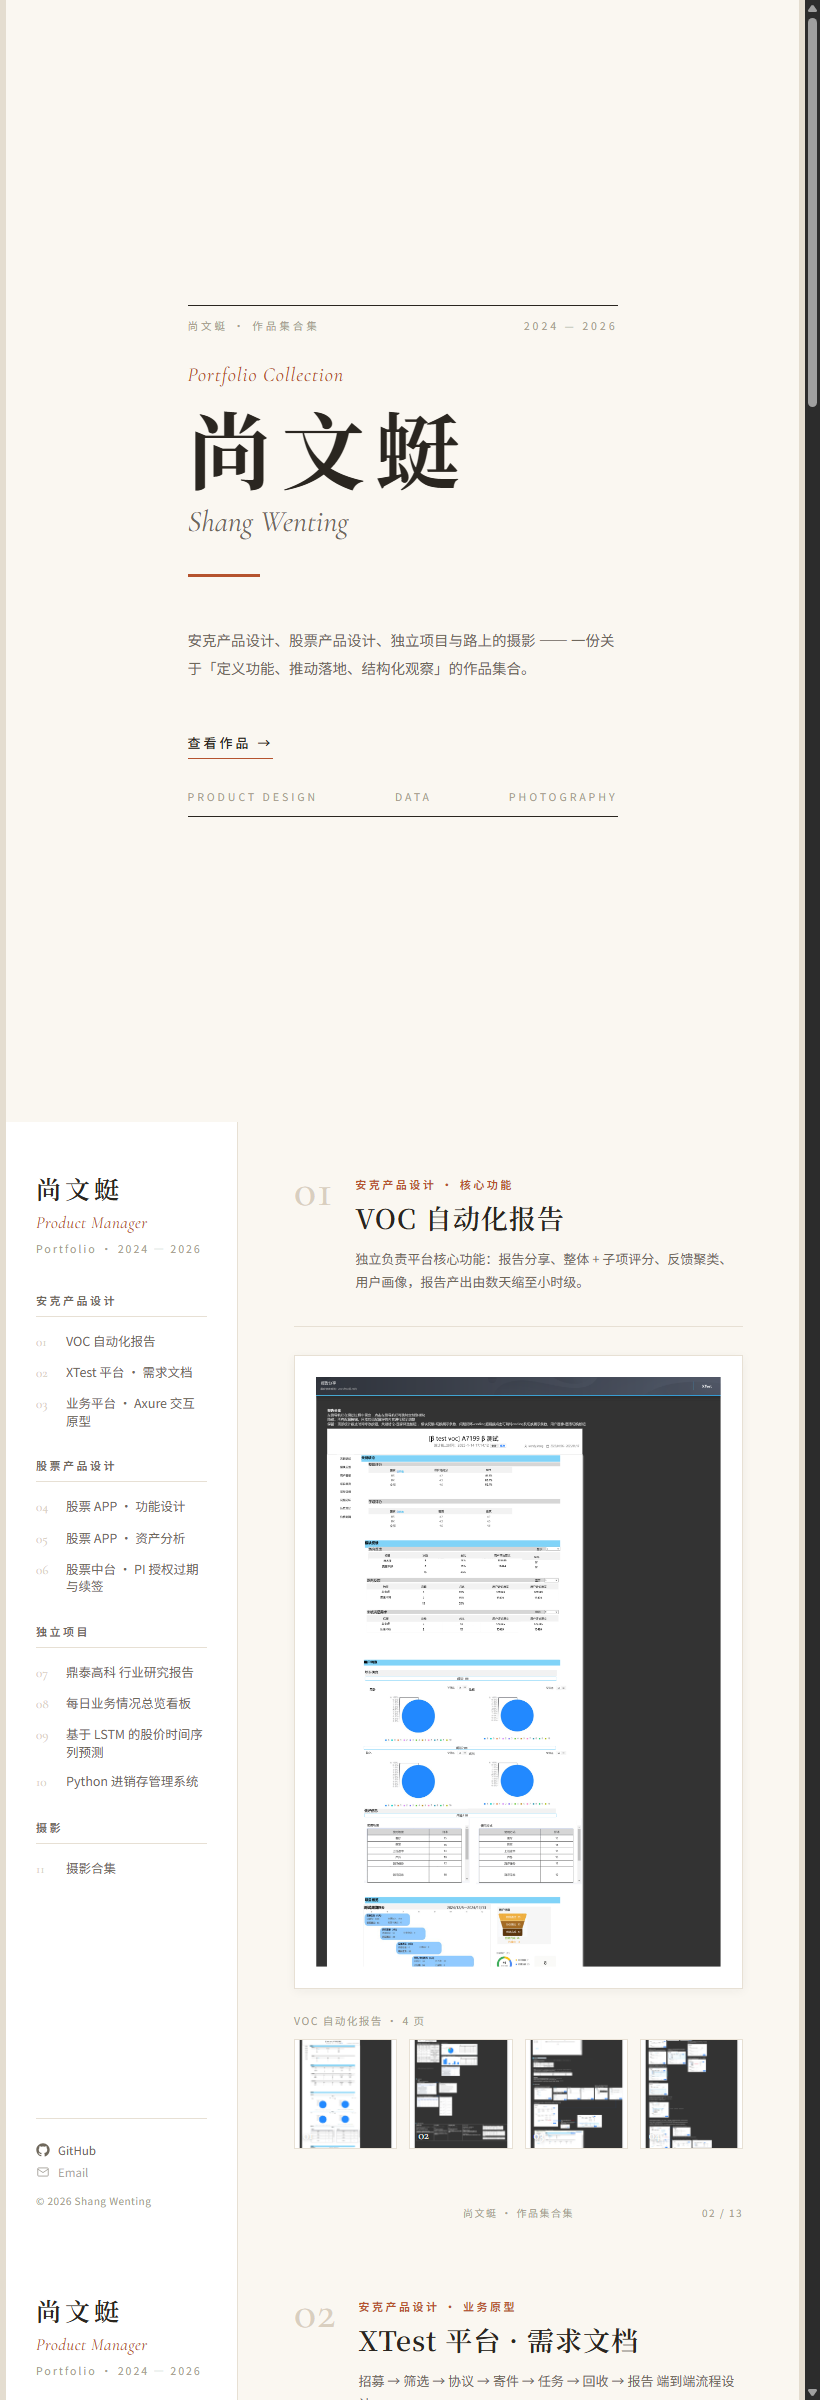
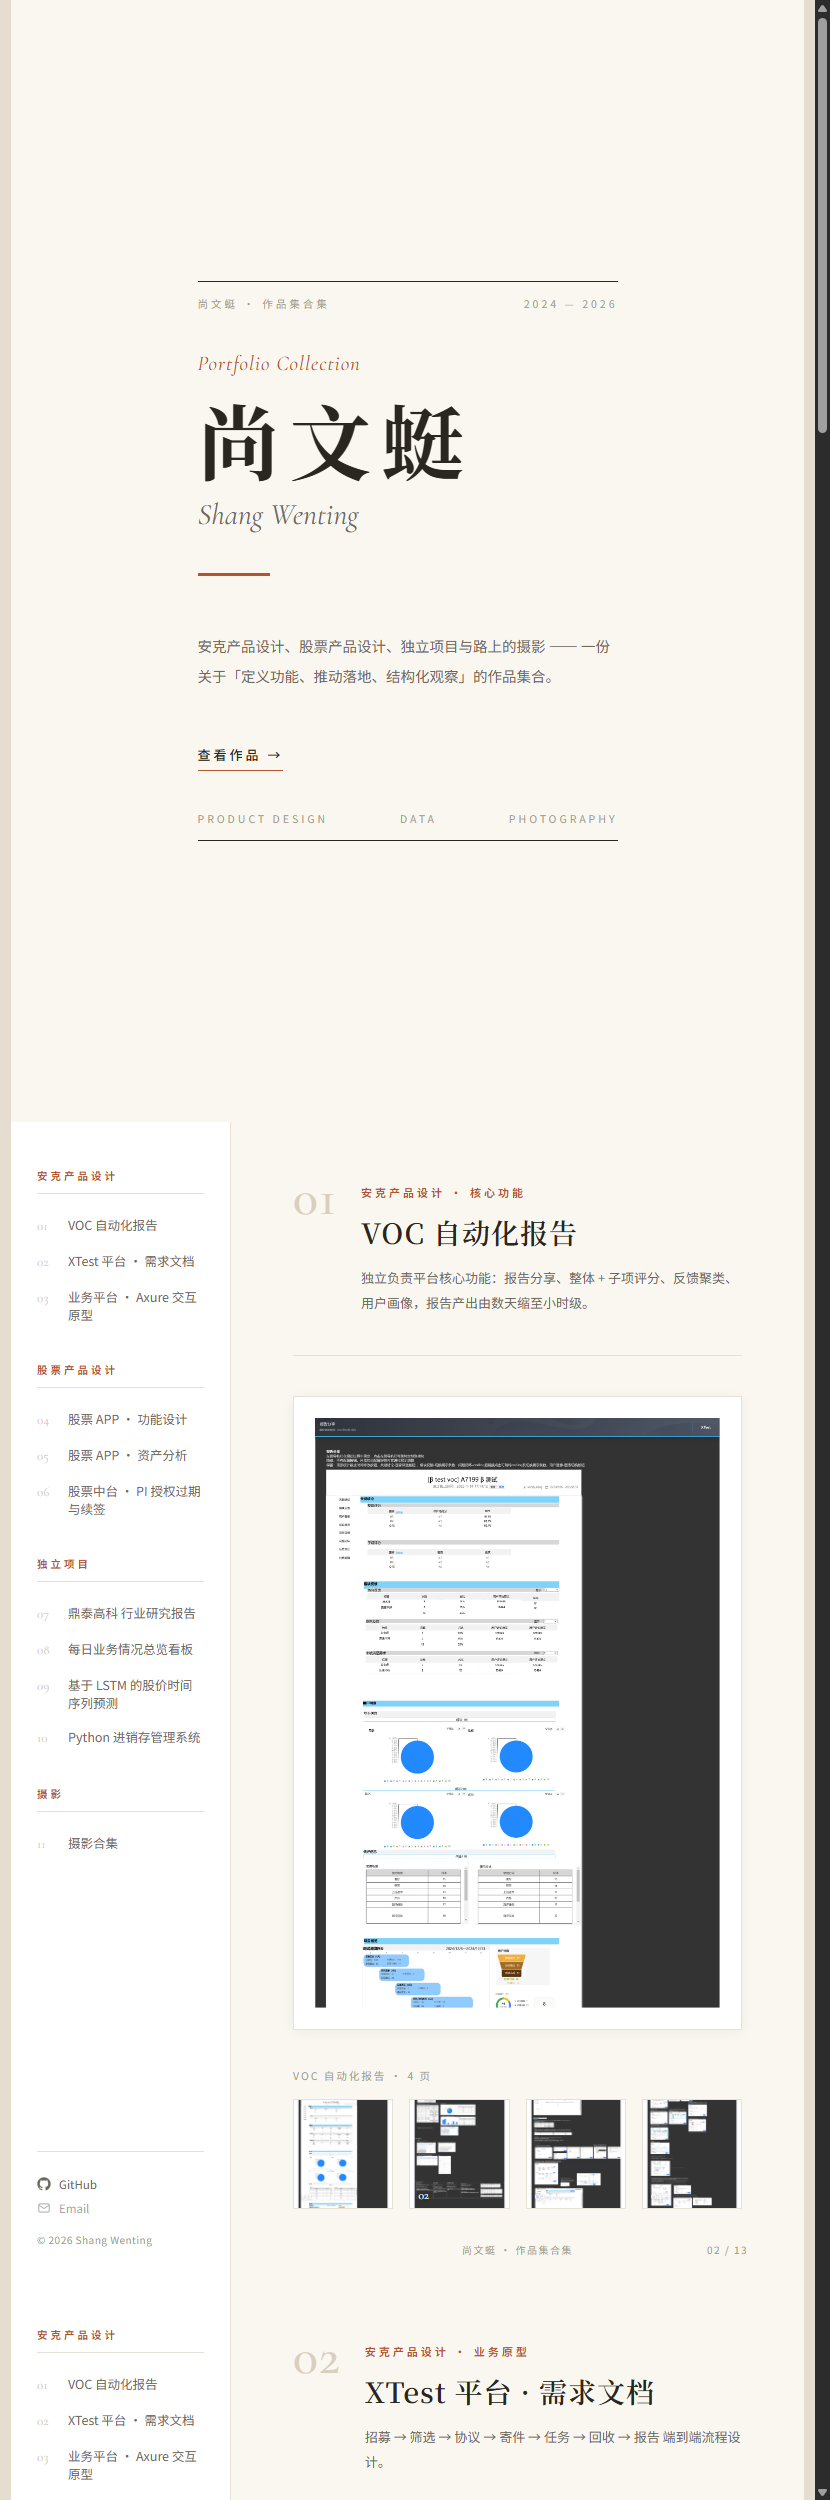
design: 移除侧栏个人介绍、整体留白更宽松、摄影与封面更舒展

diff --git a/_collection.html b/_collection.html
@@ -38,84 +38,81 @@
 
   /* ---------- light sidebar ---------- */
   .sidebar{
-    flex:0 0 232px; width:232px;
+    flex:0 0 220px; width:220px;
     background:var(--paper-2); color:var(--ink);
     border-right:1px solid var(--line);
-    padding:48px 30px 36px;
+    padding:46px 26px 34px;
     display:flex; flex-direction:column;
   }
-  .sidebar__brand{ margin-bottom:36px; }
-  .sidebar__logo{ font-family:var(--serif); font-size:25px; font-weight:600; letter-spacing:4px; color:var(--ink); }
-  .sidebar__role{ font-family:var(--latin); font-size:17px; font-style:italic; color:var(--brand); margin-top:6px; letter-spacing:.5px; }
-  .sidebar__subtitle{ font-size:10.5px; color:var(--ink-faint); margin-top:8px; letter-spacing:2px; }
+  /* 左上角个人介绍已移除：侧栏只保留导航与底部联系信息 */
 
   .sidebar__nav{ flex:1; }
-  .nav-group{ margin-bottom:22px; }
+  .nav-group{ margin-bottom:30px; }
   .nav-group__title{
-    font-size:11px; font-weight:600; letter-spacing:2.5px;
-    color:var(--ink-soft); padding-bottom:8px; margin-bottom:9px;
+    font-size:10.5px; font-weight:600; letter-spacing:3px;
+    color:var(--brand); padding-bottom:10px; margin-bottom:14px;
     border-bottom:1px solid var(--line);
   }
   .nav-group__list{ list-style:none; margin:0; padding:0; }
   .nav-link{
-    display:flex; align-items:baseline; gap:10px;
-    padding:6px 0; text-decoration:none; color:var(--ink-soft);
-    font-size:12.5px; line-height:1.4; transition:color .2s;
+    display:flex; align-items:baseline; gap:11px;
+    padding:8px 0; text-decoration:none; color:var(--ink-soft);
+    font-size:12.5px; line-height:1.45; transition:color .2s;
   }
   .nav-link:hover{ color:var(--brand); }
   .nav-link__num{ font-family:var(--latin); font-size:13px; color:var(--faint); min-width:20px; }
 
-  .sidebar__footer{ margin-top:24px; padding-top:20px; border-top:1px solid var(--line); }
-  .sidebar__social{ display:flex; align-items:center; gap:8px; color:var(--ink-soft); font-size:11.5px; text-decoration:none; padding:3px 0; }
+  .sidebar__footer{ margin-top:30px; padding-top:20px; border-top:1px solid var(--line); }
+  .sidebar__social{ display:flex; align-items:center; gap:8px; color:var(--ink-soft); font-size:11.5px; text-decoration:none; padding:4px 0; }
   .sidebar__social:hover{ color:var(--brand); }
   .sidebar__social.is-muted{ opacity:.6; }
-  .sidebar__copy{ font-size:10px; color:var(--ink-faint); margin-top:10px; letter-spacing:.5px; }
+  .sidebar__copy{ font-size:10px; color:var(--ink-faint); margin-top:12px; letter-spacing:.5px; }
 
   /* ---------- content ---------- */
-  .content{ flex:1; padding:50px 56px 66px; position:relative; display:flex; flex-direction:column; }
+  .content{ flex:1; padding:56px 62px 72px; position:relative; display:flex; flex-direction:column; }
   .content__top{
-    display:flex; align-items:flex-start; gap:22px;
-    border-bottom:1px solid var(--line); padding-bottom:20px; margin-bottom:24px;
+    display:flex; align-items:flex-start; gap:24px;
+    border-bottom:1px solid var(--line); padding-bottom:26px; margin-bottom:34px;
   }
-  .content__topnum{ font-family:var(--latin); font-size:46px; font-weight:500; color:var(--faint); line-height:.8; letter-spacing:1px; }
-  .content__head{ flex:1; padding-top:4px; }
-  .work__tag{ font-size:11px; letter-spacing:2.5px; color:var(--brand); font-weight:600; }
-  .work__title{ font-family:var(--serif); font-size:27px; font-weight:600; margin:9px 0 9px; color:var(--ink); line-height:1.25; letter-spacing:1px; }
-  .work__sub{ font-size:13px; color:var(--ink-soft); line-height:1.75; max-width:430px; }
+  .content__topnum{ font-family:var(--latin); font-size:52px; font-weight:500; color:var(--faint); line-height:.78; letter-spacing:1px; }
+  .content__head{ flex:1; padding-top:6px; }
+  .work__tag{ font-size:11px; letter-spacing:3px; color:var(--brand); font-weight:600; }
+  .work__title{ font-family:var(--serif); font-size:28px; font-weight:600; margin:14px 0 16px; color:var(--ink); line-height:1.3; letter-spacing:1px; }
+  .work__sub{ font-size:13px; color:var(--ink-soft); line-height:1.9; max-width:440px; }
 
-  .work__hero{ margin:4px 0 0; border:1px solid var(--line); background:var(--paper-2); overflow:hidden; box-shadow:0 2px 10px rgba(42,38,32,.05); }
+  .work__hero{ margin:6px 0 0; border:1px solid var(--line); background:var(--paper-2); overflow:hidden; box-shadow:0 2px 12px rgba(42,38,32,.05); }
   .work__hero img{ display:block; width:100%; height:auto; }
 
-  .page-strip{ margin-top:24px; }
-  .page-strip__label{ font-size:10.5px; letter-spacing:1.5px; color:var(--ink-faint); margin-bottom:11px; }
-  .page-strip__grid{ display:grid; grid-template-columns:repeat(4,1fr); gap:12px; }
+  .page-strip{ margin-top:38px; }
+  .page-strip__label{ font-size:10.5px; letter-spacing:2px; color:var(--ink-faint); margin-bottom:16px; }
+  .page-strip__grid{ display:grid; grid-template-columns:repeat(4,1fr); gap:16px; }
   .page-strip__item{ position:relative; border:1px solid var(--line); background:var(--paper-2); overflow:hidden; }
   .page-strip__item img{ display:block; width:100%; height:108px; object-fit:cover; }
   .page-strip__item .ps-num{ position:absolute; left:8px; bottom:6px; font-family:var(--latin); font-size:12px; color:#fff; text-shadow:0 1px 3px rgba(0,0,0,.5); }
 
   /* ---------- photography ---------- */
-  .photo-topnum{ font-family:var(--latin); font-size:46px; font-weight:500; color:var(--faint); line-height:.8; }
-  .photo-title{ font-family:var(--serif); font-size:27px; font-weight:600; margin:9px 0 9px; letter-spacing:1px; }
-  .photo-caption{ font-size:14px; color:var(--ink-soft); line-height:1.8; max-width:450px; margin-bottom:22px; }
-  .photo-feature{ border:1px solid var(--line); overflow:hidden; margin-bottom:18px; background:var(--paper-2); box-shadow:0 2px 10px rgba(42,38,32,.05); }
-  .photo-feature img{ display:block; width:100%; height:438px; object-fit:cover; }
-  .photo-grid{ display:grid; grid-template-columns:repeat(3,1fr); gap:12px; }
+  .photo-topnum{ font-family:var(--latin); font-size:52px; font-weight:500; color:var(--faint); line-height:.78; }
+  .photo-title{ font-family:var(--serif); font-size:28px; font-weight:600; margin:14px 0 16px; letter-spacing:1px; }
+  .photo-caption{ font-size:14px; color:var(--ink-soft); line-height:1.9; max-width:450px; margin-bottom:32px; }
+  .photo-feature{ border:1px solid var(--line); overflow:hidden; margin-bottom:30px; background:var(--paper-2); box-shadow:0 2px 12px rgba(42,38,32,.05); }
+  .photo-feature img{ display:block; width:100%; height:418px; object-fit:cover; }
+  .photo-grid{ display:grid; grid-template-columns:repeat(3,1fr); gap:18px; }
   .photo-grid figure{ margin:0; border:1px solid var(--line); overflow:hidden; background:var(--paper-2); }
-  .photo-grid img{ display:block; width:100%; height:124px; object-fit:cover; }
-  .photo-grid figcaption{ font-size:10px; color:var(--ink-faint); padding:7px 9px; letter-spacing:.5px; }
+  .photo-grid img{ display:block; width:100%; height:130px; object-fit:cover; }
+  .photo-grid figcaption{ font-size:10px; color:var(--ink-faint); padding:9px 11px; letter-spacing:.5px; }
 
   /* ---------- cover (editorial) ---------- */
-  .cover{ padding:64px 70px; display:flex; flex-direction:column; justify-content:space-between; align-items:stretch; text-align:left; }
-  .cover__toprule{ display:flex; justify-content:space-between; align-items:center; font-size:10.5px; letter-spacing:3px; color:var(--ink-faint); border-top:1px solid var(--ink); padding-top:12px; }
-  .cover__mid{ flex:1; display:flex; flex-direction:column; justify-content:center; padding:30px 0; }
-  .cover__eyebrow{ font-family:var(--latin); font-style:italic; font-size:20px; color:var(--brand); letter-spacing:1px; }
-  .cover__title{ font-family:var(--serif); font-size:84px; font-weight:700; margin:18px 0 14px; letter-spacing:10px; line-height:1; }
+  .cover{ padding:72px 76px; display:flex; flex-direction:column; justify-content:space-between; align-items:stretch; text-align:left; }
+  .cover__toprule{ display:flex; justify-content:space-between; align-items:center; font-size:10.5px; letter-spacing:3px; color:var(--ink-faint); border-top:1px solid var(--ink); padding-top:14px; }
+  .cover__mid{ flex:1; display:flex; flex-direction:column; justify-content:center; padding:40px 0; }
+  .cover__eyebrow{ font-family:var(--latin); font-style:italic; font-size:21px; color:var(--brand); letter-spacing:1px; }
+  .cover__title{ font-family:var(--serif); font-size:82px; font-weight:700; margin:22px 0 16px; letter-spacing:10px; line-height:1; }
   .cover__title-en{ font-family:var(--latin); font-size:30px; font-style:italic; color:var(--ink-soft); }
-  .cover__rule{ width:72px; height:3px; background:var(--brand); margin:34px 0; }
-  .cover__lead{ font-size:14.5px; color:var(--ink-soft); line-height:1.95; max-width:430px; text-wrap:pretty; }
-  .cover__link{ display:inline-flex; align-items:center; gap:10px; margin-top:36px; font-size:13px; letter-spacing:3px; color:var(--ink); text-decoration:none; font-weight:500; border-bottom:1.5px solid var(--brand); padding-bottom:6px; width:fit-content; }
+  .cover__rule{ width:72px; height:3px; background:var(--brand); margin:40px 0; }
+  .cover__lead{ font-size:14.5px; color:var(--ink-soft); line-height:2.05; max-width:420px; text-wrap:pretty; }
+  .cover__link{ display:inline-flex; align-items:center; gap:10px; margin-top:40px; font-size:13px; letter-spacing:3px; color:var(--ink); text-decoration:none; font-weight:500; border-bottom:1.5px solid var(--brand); padding-bottom:6px; width:fit-content; }
   .cover__link:hover{ color:var(--brand); }
-  .cover__botrule{ display:flex; justify-content:space-between; align-items:center; font-size:10.5px; letter-spacing:3px; color:var(--ink-faint); border-bottom:1px solid var(--ink); padding-bottom:12px; }
+  .cover__botrule{ display:flex; justify-content:space-between; align-items:center; font-size:10.5px; letter-spacing:3px; color:var(--ink-faint); border-bottom:1px solid var(--ink); padding-bottom:14px; }
 
   /* ---------- footer ---------- */
   .page__footer{
@@ -131,11 +128,6 @@
 <!-- ===================== NAV TEMPLATE (light) ===================== -->
 <div id="nav-template" style="display:none">
   <div class="sidebar">
-    <div class="sidebar__brand">
-      <div class="sidebar__logo">尚文蜓</div>
-      <div class="sidebar__role">Product Manager</div>
-      <div class="sidebar__subtitle">Portfolio · 2024 — 2026</div>
-    </div>
     <nav class="sidebar__nav">
       <div class="nav-group">
         <div class="nav-group__title">安克产品设计</div>
